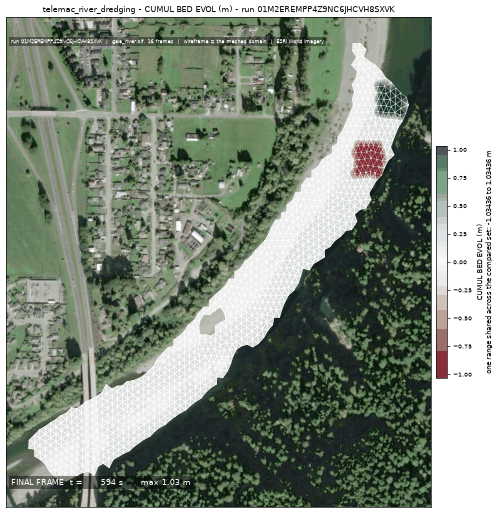
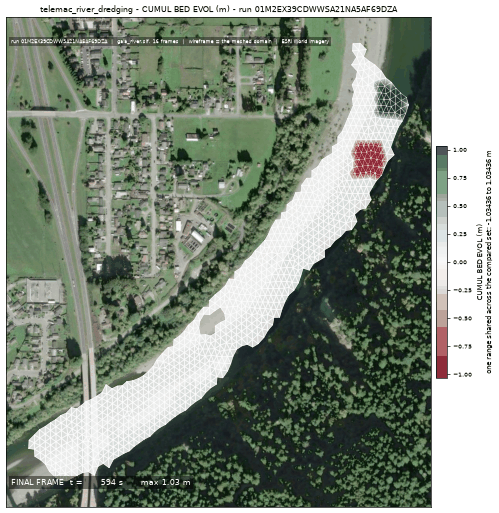
docs: the dredge page off its own proving run
Claude-Session: https://claude.ai/code/session_011wCduZ7TyoMtpZoGZfh2Rw

Changed region(s): [[0.0902, 0.0, 0.8116, 0.0312], [0.0902, 0.0624, 0.6613, 0.0936], [0.8717, 0.6862, 0.9018, 0.7173]]

diff --git a/docs/templates/telemac_river_dredging.md b/docs/templates/telemac_river_dredging.md
@@ -63,6 +63,7 @@ The values the template declares. `desc` is what the model reads when it fills o
 |---|---|
 | `dug_volume_m3` | 4709.386117 |
 | `dumped_volume_m3` | 4709.386117 |
+| `dredge_report` | the volumes are the engine's own report lines, summed over the passes that finished inside the run's clock |
 | `dredged_bed_change_m` | -0.9470365047454834 |
 | `dumped_bed_change_m` | 1.034358263015747 |
 | `net_bed_mass_kg` | -728.4404 |
@@ -80,19 +81,19 @@ It publishes these layers onto the canvas:
 
 ## The proving run
 
-Run `01M2EREMPP4Z9NC6JHCVH8SXVK`, 2026-09-14T01:28:23.024430+00:00, 28.446 s, at commit `d341f5de11746c960c7d687adeb134d461f118e2`.
+Run `01M2EX39CDWWSA21NA5AF69DZA`, 2026-09-14T02:49:32.262116+00:00, 26.141 s, at commit `4ccc1576361b1185b9fcf05e6004fa5a75e49bbe-dirty`.
 
-![Every layer the run published, stacked and framed on the result (run 01M2EREMPP4Z9NC6JHCVH8SXVK)](telemac_river_dredging/telemac_river_dredging.png)
+![Every layer the run published, stacked and framed on the result (run 01M2EX39CDWWSA21NA5AF69DZA)](telemac_river_dredging/telemac_river_dredging.png)
 
-*Every layer the run published, stacked and framed on the result (run 01M2EREMPP4Z9NC6JHCVH8SXVK)*
+*Every layer the run published, stacked and framed on the result (run 01M2EX39CDWWSA21NA5AF69DZA)*
 
-![The solve, frame by frame (run 01M2EREMPP4Z9NC6JHCVH8SXVK)](telemac_river_dredging/telemac_river_dredging_animation.gif)
+![The solve, frame by frame (run 01M2EX39CDWWSA21NA5AF69DZA)](telemac_river_dredging/telemac_river_dredging_animation.gif)
 
-*The solve, frame by frame (run 01M2EREMPP4Z9NC6JHCVH8SXVK)*
+*The solve, frame by frame (run 01M2EX39CDWWSA21NA5AF69DZA)*
 
-![final frame (run 01M2EREMPP4Z9NC6JHCVH8SXVK)](telemac_river_dredging/telemac_river_dredging_final_frame.png)
+![final frame (run 01M2EX39CDWWSA21NA5AF69DZA)](telemac_river_dredging/telemac_river_dredging_final_frame.png)
 
-*final frame (run 01M2EREMPP4Z9NC6JHCVH8SXVK)*
+*final frame (run 01M2EX39CDWWSA21NA5AF69DZA)*
 
 ### The sheet it filled
 
@@ -150,5 +151,5 @@ await TOOL_REGISTRY['telemac_river_dredging'].fn(
 )
 ```
 
-That is the invocation this run came from; the figures above are stamped with run `01M2EREMPP4Z9NC6JHCVH8SXVK` and commit `d341f5de11746c960c7d687adeb134d461f118e2`. The full argument record is [`telemac_river_dredging/run.json`](telemac_river_dredging/run.json).
+That is the invocation this run came from; the figures above are stamped with run `01M2EX39CDWWSA21NA5AF69DZA` and commit `4ccc1576361b1185b9fcf05e6004fa5a75e49bbe-dirty`. The full argument record is [`telemac_river_dredging/run.json`](telemac_river_dredging/run.json).
 

diff --git a/docs/templates/index.md b/docs/templates/index.md
@@ -42,7 +42,7 @@ Module `telemac2d`, proving run `01M2EBK39ZK0YXRFDHTGZH5PRV`.
 
 MAINTENANCE DREDGING of a navigation channel: how much comes out, and what the bed does.
 
-Module `telemac2d`, proving run `01M2EREMPP4Z9NC6JHCVH8SXVK`.
+Module `telemac2d`, proving run `01M2EX39CDWWSA21NA5AF69DZA`.
 
 ## [`telemac_river_dye`](telemac_river_dye.md)
 
